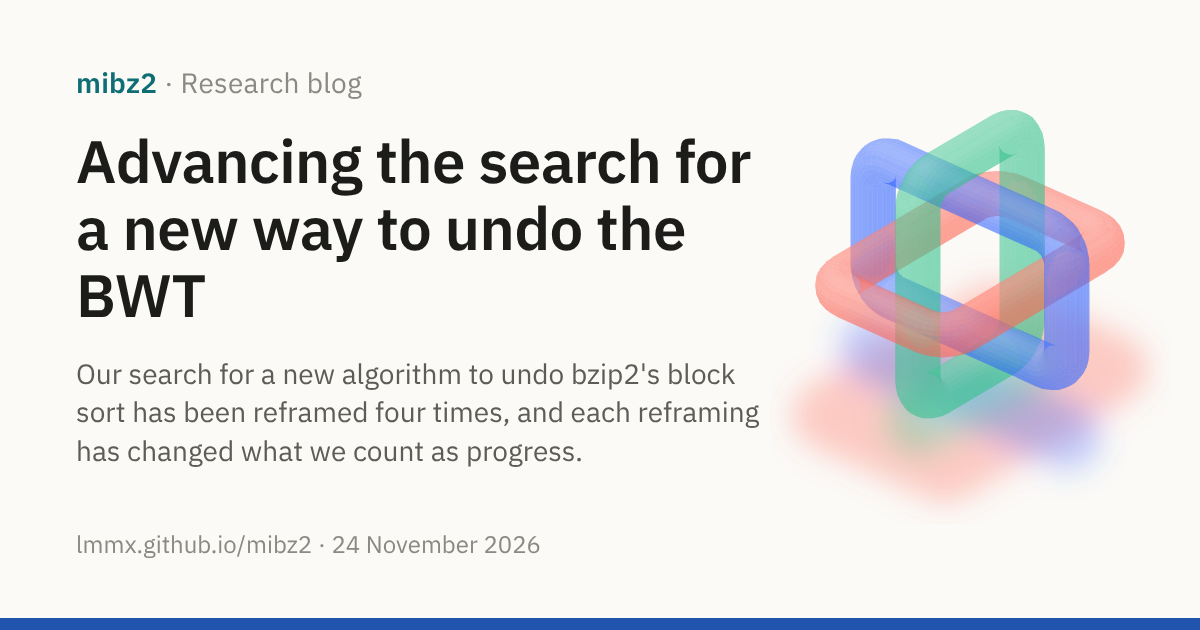
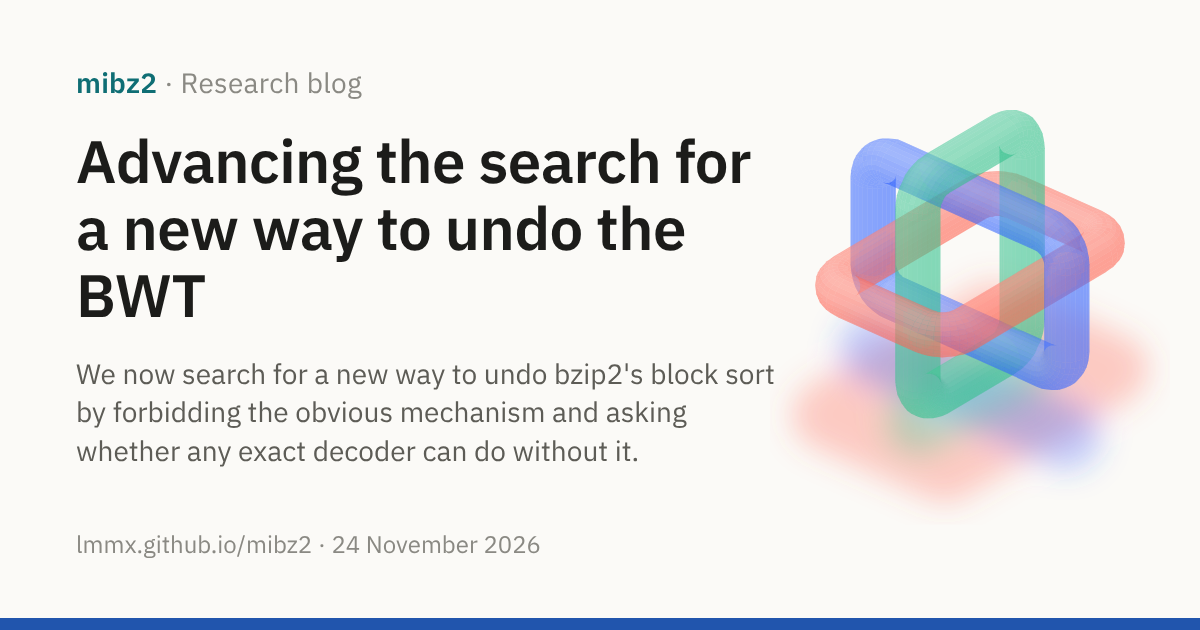
blog(advancing-the-search): forbid the obvious mechanism, in the dek and as a table
Louis: fewer than one A press can be seen as forbidding the obvious mechanism. The dek now says
so (check_prose: one sentence, no breaks). §2 gains journal §12's four-row comparison of the
Mario 64 challenge and mibz2, with its two superseded cells updated: Open as h₁ width-1 steps
among its m retained steps (record 102's stricter count), and the floor as G1 (record 103).

Changed region(s): [[0.0617, 0.573, 0.6475, 0.754]]

diff --git a/docs/site/blog/2026-11-24-advancing-the-search.md b/docs/site/blog/2026-11-24-advancing-the-search.md
@@ -1,7 +1,7 @@
 ---
 title: "Advancing the search for a new way to undo the BWT"
 image: assets/social/blog-2026-11-24-advancing-the-search.png
-description: "Our search for a new algorithm to undo bzip2's block sort has been reframed four times, and each reframing has changed what we count as progress."
+description: "We now search for a new way to undo bzip2's block sort by forbidding the obvious mechanism and asking whether any exact decoder can do without it."
 ---
 
 <div class="post-hero" markdown>
@@ -13,7 +13,7 @@ description: "Our search for a new algorithm to undo bzip2's block sort has been
 
 # Advancing the search for a new way to undo the BWT
 
-Our search for a new algorithm to undo bzip2's block sort has been reframed four times, and each reframing has changed what we count as progress.
+We now search for a new way to undo bzip2's block sort by forbidding the obvious mechanism and asking whether any exact decoder can do without it.
 {: .post-dek }
 
 24 November 2026 · 15 min read · [Meta](#7-where-the-search-stands)
@@ -79,7 +79,24 @@ could be done with *fewer than one* press of the A button. That is a minimisatio
 yes-or-no question, answered by a route or by a proof that none exists. Its decisive move came from
 working backwards: it supplied the impossible-looking condition in a test fixture, confirmed the
 payoff, and only then found how the game could produce it, one supplied condition at a time.
-Payoff first, mechanism second. Our [target](https://github.com/lmmx/mibz2/blob/d60c4215e5afa94478fff856b018275af157abd9/docs/team/research-charter/FRONTIER.md) now has the same form: invert every block
+Payoff first, mechanism second.
+
+What makes "fewer than one" force a leap is that it forbids the obvious mechanism: the tool every
+ordinary route relies on. mibz2 has an exact counterpart.
+
+| | The Mario 64 challenge | mibz2 |
+|---|---|---|
+| **The obvious mechanism** | the A press | following the block's cycle, one row at a time |
+| **The best known** | one A press | Open: h₁ width-1 steps among its m retained steps |
+| **The class's floor** | ordinary routes need at least one | G1: every route of the current kind pays at least one event per width-1 row |
+| **The challenge** | fewer than one | fewer than h₁ |
+
+Here h₁ is the block's number of width-1 runs, and h₁/m is 0.30, 0.39 and 0.83 at the minimum,
+median and maximum across Wikidata's distinct blocks. Because no route of the current kind goes
+below the floor, anything below it is, by theorem, not an edit to Open. Whether a candidate is a
+new algorithm or an increment stops being a judgement and becomes a consequence of the bound.
+
+Our [target](https://github.com/lmmx/mibz2/blob/d60c4215e5afa94478fff856b018275af157abd9/docs/team/research-charter/FRONTIER.md) now has the same form: invert every block
 exactly, within a fixed number of passes, with fewer single-row events than every route of the
 current kind must pay, and then beat our current decoder on the bench. A candidate either crosses
 that line or it doesn't. Each candidate starts with a supplied-capability test: hand the decoder

diff --git a/docs/site/blog/index.md b/docs/site/blog/index.md
@@ -8,7 +8,7 @@ What mibz2's experiments are finding, and where they go next. The evidence behin
 post is in the [journals](../background/journals.md) and the pull requests they link.
 
 <div class="post-list">
-<a class="post-card" href="2026-11-24-advancing-the-search.md"><img src="../assets/social/blog-2026-11-24-advancing-the-search.png" alt="" loading="lazy"><span class="post-card-text"><span class="post-card-date">24 November 2026 · Meta</span><span class="post-card-title">Advancing the search for a new way to undo the BWT</span><span class="post-card-dek">Our search for a new algorithm to undo bzip2's block sort has been reframed four times, and each reframing has changed what we count as progress.</span></span></a>
+<a class="post-card" href="2026-11-24-advancing-the-search.md"><img src="../assets/social/blog-2026-11-24-advancing-the-search.png" alt="" loading="lazy"><span class="post-card-text"><span class="post-card-date">24 November 2026 · Meta</span><span class="post-card-title">Advancing the search for a new way to undo the BWT</span><span class="post-card-dek">We now search for a new way to undo bzip2's block sort by forbidding the obvious mechanism and asking whether any exact decoder can do without it.</span></span></a>
 <a class="post-card" href="2026-11-22-decompression-is-the-harder-problem.md"><img src="../assets/social/blog-2026-11-22-decompression-is-the-harder-problem.png" alt="" loading="lazy"><span class="post-card-text"><span class="post-card-date">22 November 2026 · Meta</span><span class="post-card-title">Playing the hand you're dealt: in conversation with Thomas Murphy</span><span class="post-card-dek">A discussion of the mibz2 swarm, and why the Hutter Prize has it backwards: it rewards whoever stacks the deck best, when real data deals you the hand.</span></span></a>
 <a class="post-card" href="2026-11-22-correctness-is-uniform-cost-is-not.md"><img src="../assets/social/blog-2026-11-22-correctness-is-uniform-cost-is-not.png" alt="" loading="lazy"><span class="post-card-text"><span class="post-card-date">22 November 2026 · Research in progress</span><span class="post-card-title">Correctness is uniform, cost is not</span><span class="post-card-dek">Every route in mibz2's bzip2 decoder is exact on every block, but cost varies from block to block and so we hunt for speed in many places.</span></span></a>
 <a class="post-card" href="2026-11-22-two-centuries-of-tools.md"><img src="../assets/social/blog-2026-11-22-two-centuries-of-tools.png" alt="" loading="lazy"><span class="post-card-text"><span class="post-card-date">22 November 2026 · Meta</span><span class="post-card-title">Two centuries of tools: a claimed Riemann proof's toolkit, and our search</span><span class="post-card-dek">A claimed Riemann proof built one new idea on fifty older tools reaching back two centuries, so our research teams now look back as hard as forward.</span></span></a>
